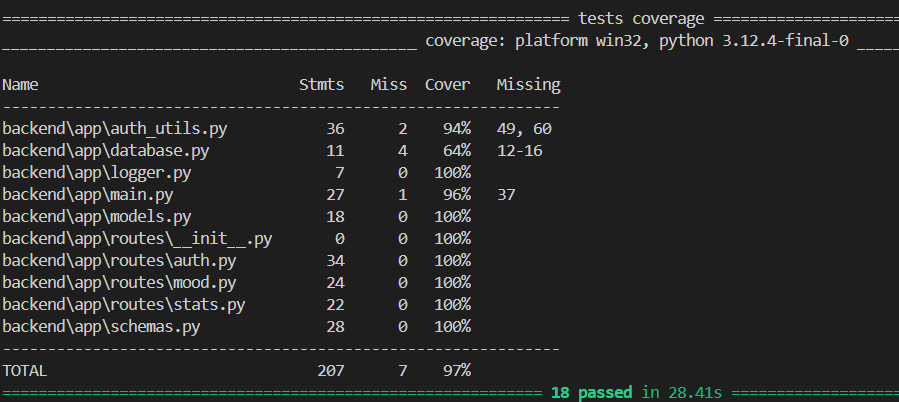
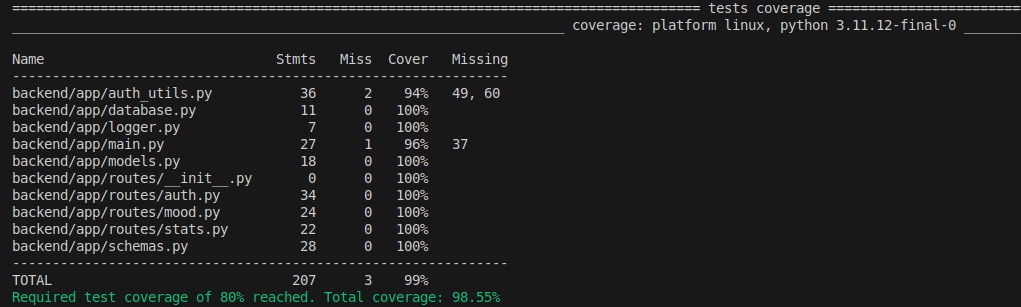
fixed readme

diff --git a/README.md b/README.md
@@ -48,7 +48,7 @@ This project emphasizes software quality, verified through various tools and tes
 ### 4.1 Maintainability
 
 - **Modularity:** Achieved through the separation of concerns described in the Architecture section (FastAPI routers, distinct backend modules, frontend/backend split). Code review confirms logical separation.
-- **Testability:** Backend code coverage exceeds **96%**, measured by `pytest-cov`. The CI pipeline enforces a minimum of 80% coverage. Key modules (`auth`, `mood`, `stats`, `schemas`, `models`) achieve 100% coverage.
+- **Testability:** Backend code coverage exceeds **98%**, measured by `pytest-cov`. The CI pipeline enforces a minimum of 80% coverage. Key modules (`auth`, `mood`, `stats`, `schemas`, `models`) achieve 100% coverage.
 ![Test Coverage](screenshots/test_coverage.png)
 
 - **Modifiability:** Code style adheres to PEP8, enforced by `flake8` checks within the CI pipeline. Code complexity is kept low (verified optionally via `radon`).
